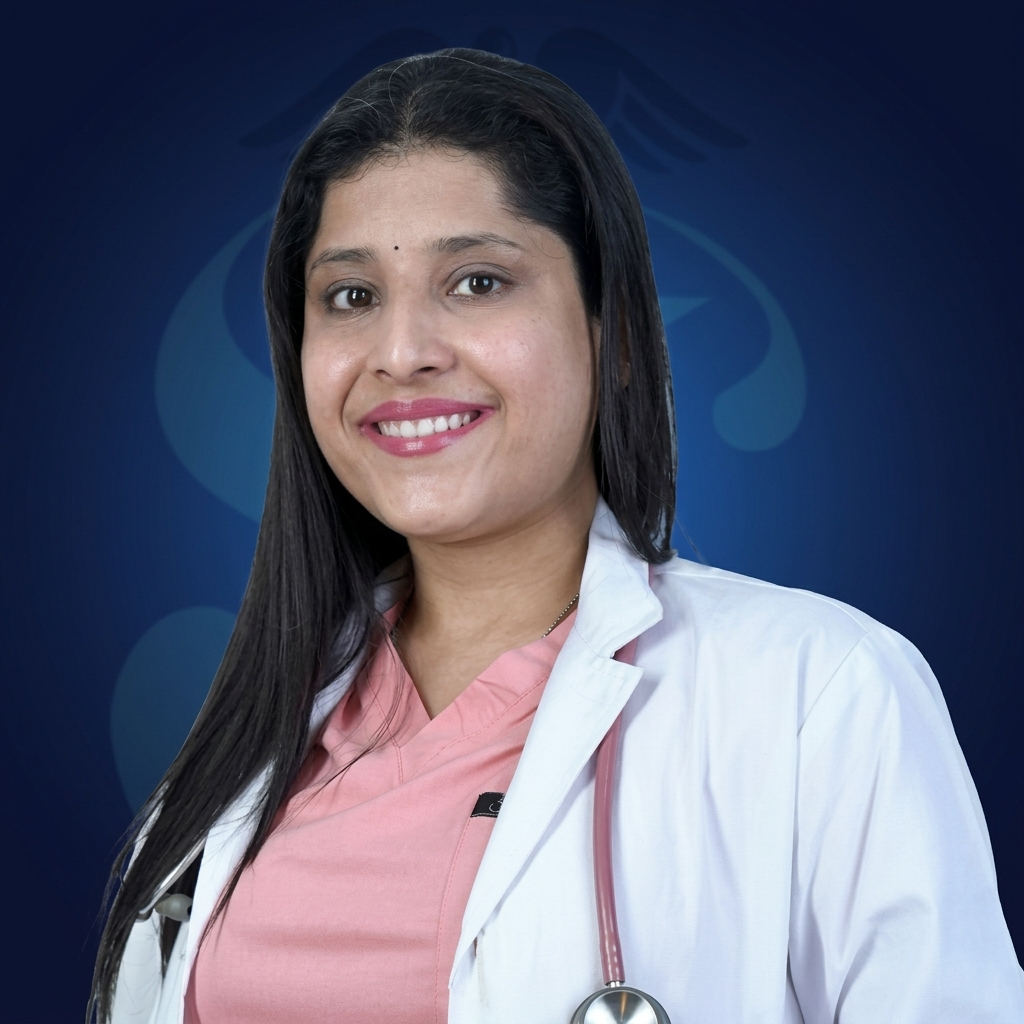
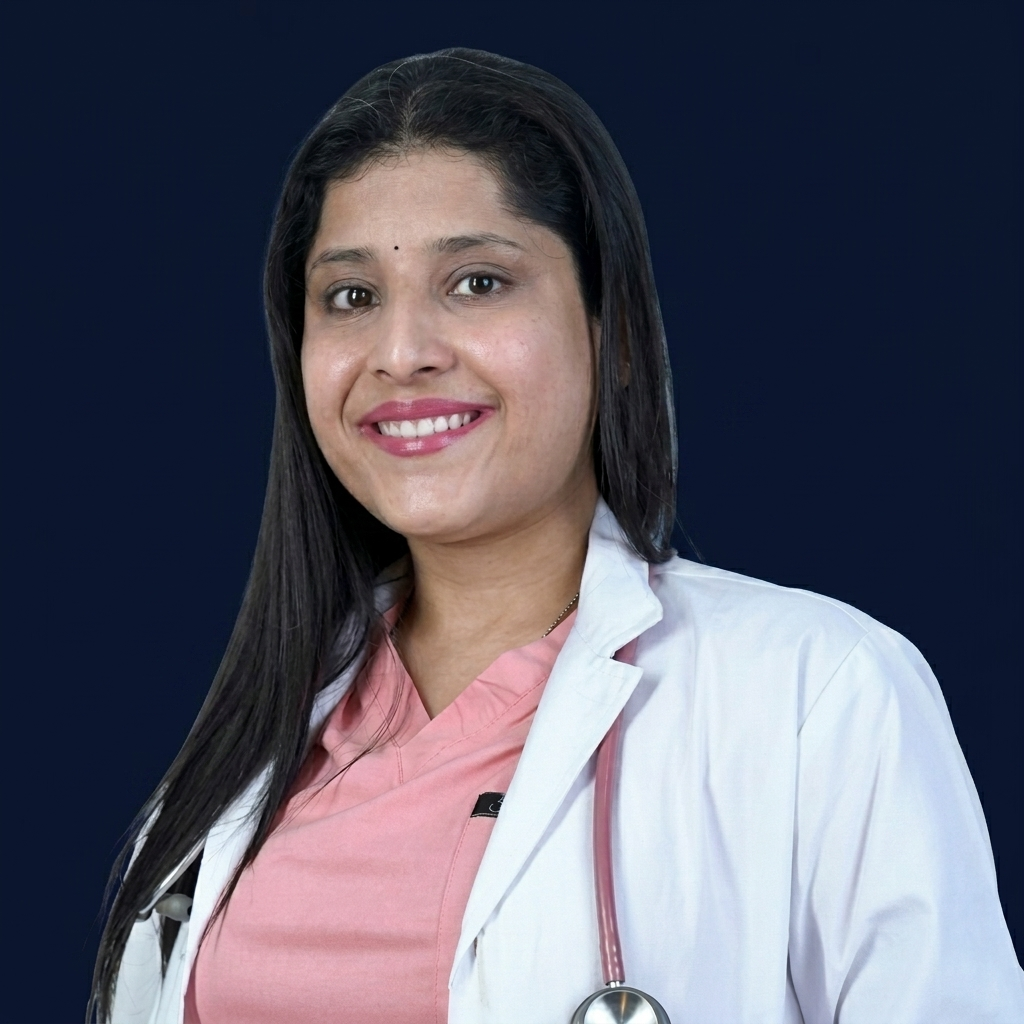
Remove phone button and fix color grading for perfect hero blending

Changed region(s): [[0.5625, 0.0938, 0.9062, 0.625], [0.0938, 0.1562, 0.2812, 0.8125], [0.2812, 0.125, 0.3125, 0.1562]]

diff --git a/css/style.css b/css/style.css
@@ -226,7 +226,7 @@ h3 { font-size: 1.5rem; }
    ============================================ */
 .hero-section {
     padding: 120px 0 0;
-    background: linear-gradient(135deg, #0a1d37 0%, #162a42 100%);
+    background: #020710; /* Solid deep medical navy for perfect blending */
     color: var(--white);
     overflow: hidden;
     position: relative;
@@ -364,28 +364,6 @@ h3 { font-size: 1.5rem; }
     filter: drop-shadow(0 20px 50px rgba(0,0,0,0.5));
 }
 
-.hero-phone-floating {
-    position: absolute;
-    bottom: 10%;
-    right: 15%;
-    width: 70px;
-    height: 70px;
-    background: #3b82f6;
-    border-radius: 50%;
-    display: flex;
-    align-items: center;
-    justify-content: center;
-    color: white;
-    font-size: 1.8rem;
-    box-shadow: 0 0 30px rgba(59, 130, 246, 0.5);
-    animation: pulse 2s infinite;
-}
-
-@keyframes pulse {
-    0% { transform: scale(1); box-shadow: 0 0 0 0 rgba(59, 130, 246, 0.7); }
-    70% { transform: scale(1.1); box-shadow: 0 0 0 20px rgba(59, 130, 246, 0); }
-    100% { transform: scale(1); box-shadow: 0 0 0 0 rgba(59, 130, 246, 0); }
-}
 
 /* Responsive Hero */
 @media (max-width: 991px) {

diff --git a/index.php b/index.php
@@ -45,9 +45,6 @@ require_once 'header.php';
         <div class="hero-visual">
             <div class="hero-doctor-wrapper">
                 <img src="images/hero-doctor.png" alt="Dr. Ankita Bansal Goyal" class="hero-doctor">
-                <a href="tel:+919876543210" class="hero-phone-floating">
-                    <i class="fas fa-phone-alt"></i>
-                </a>
             </div>
         </div>
     </div>
